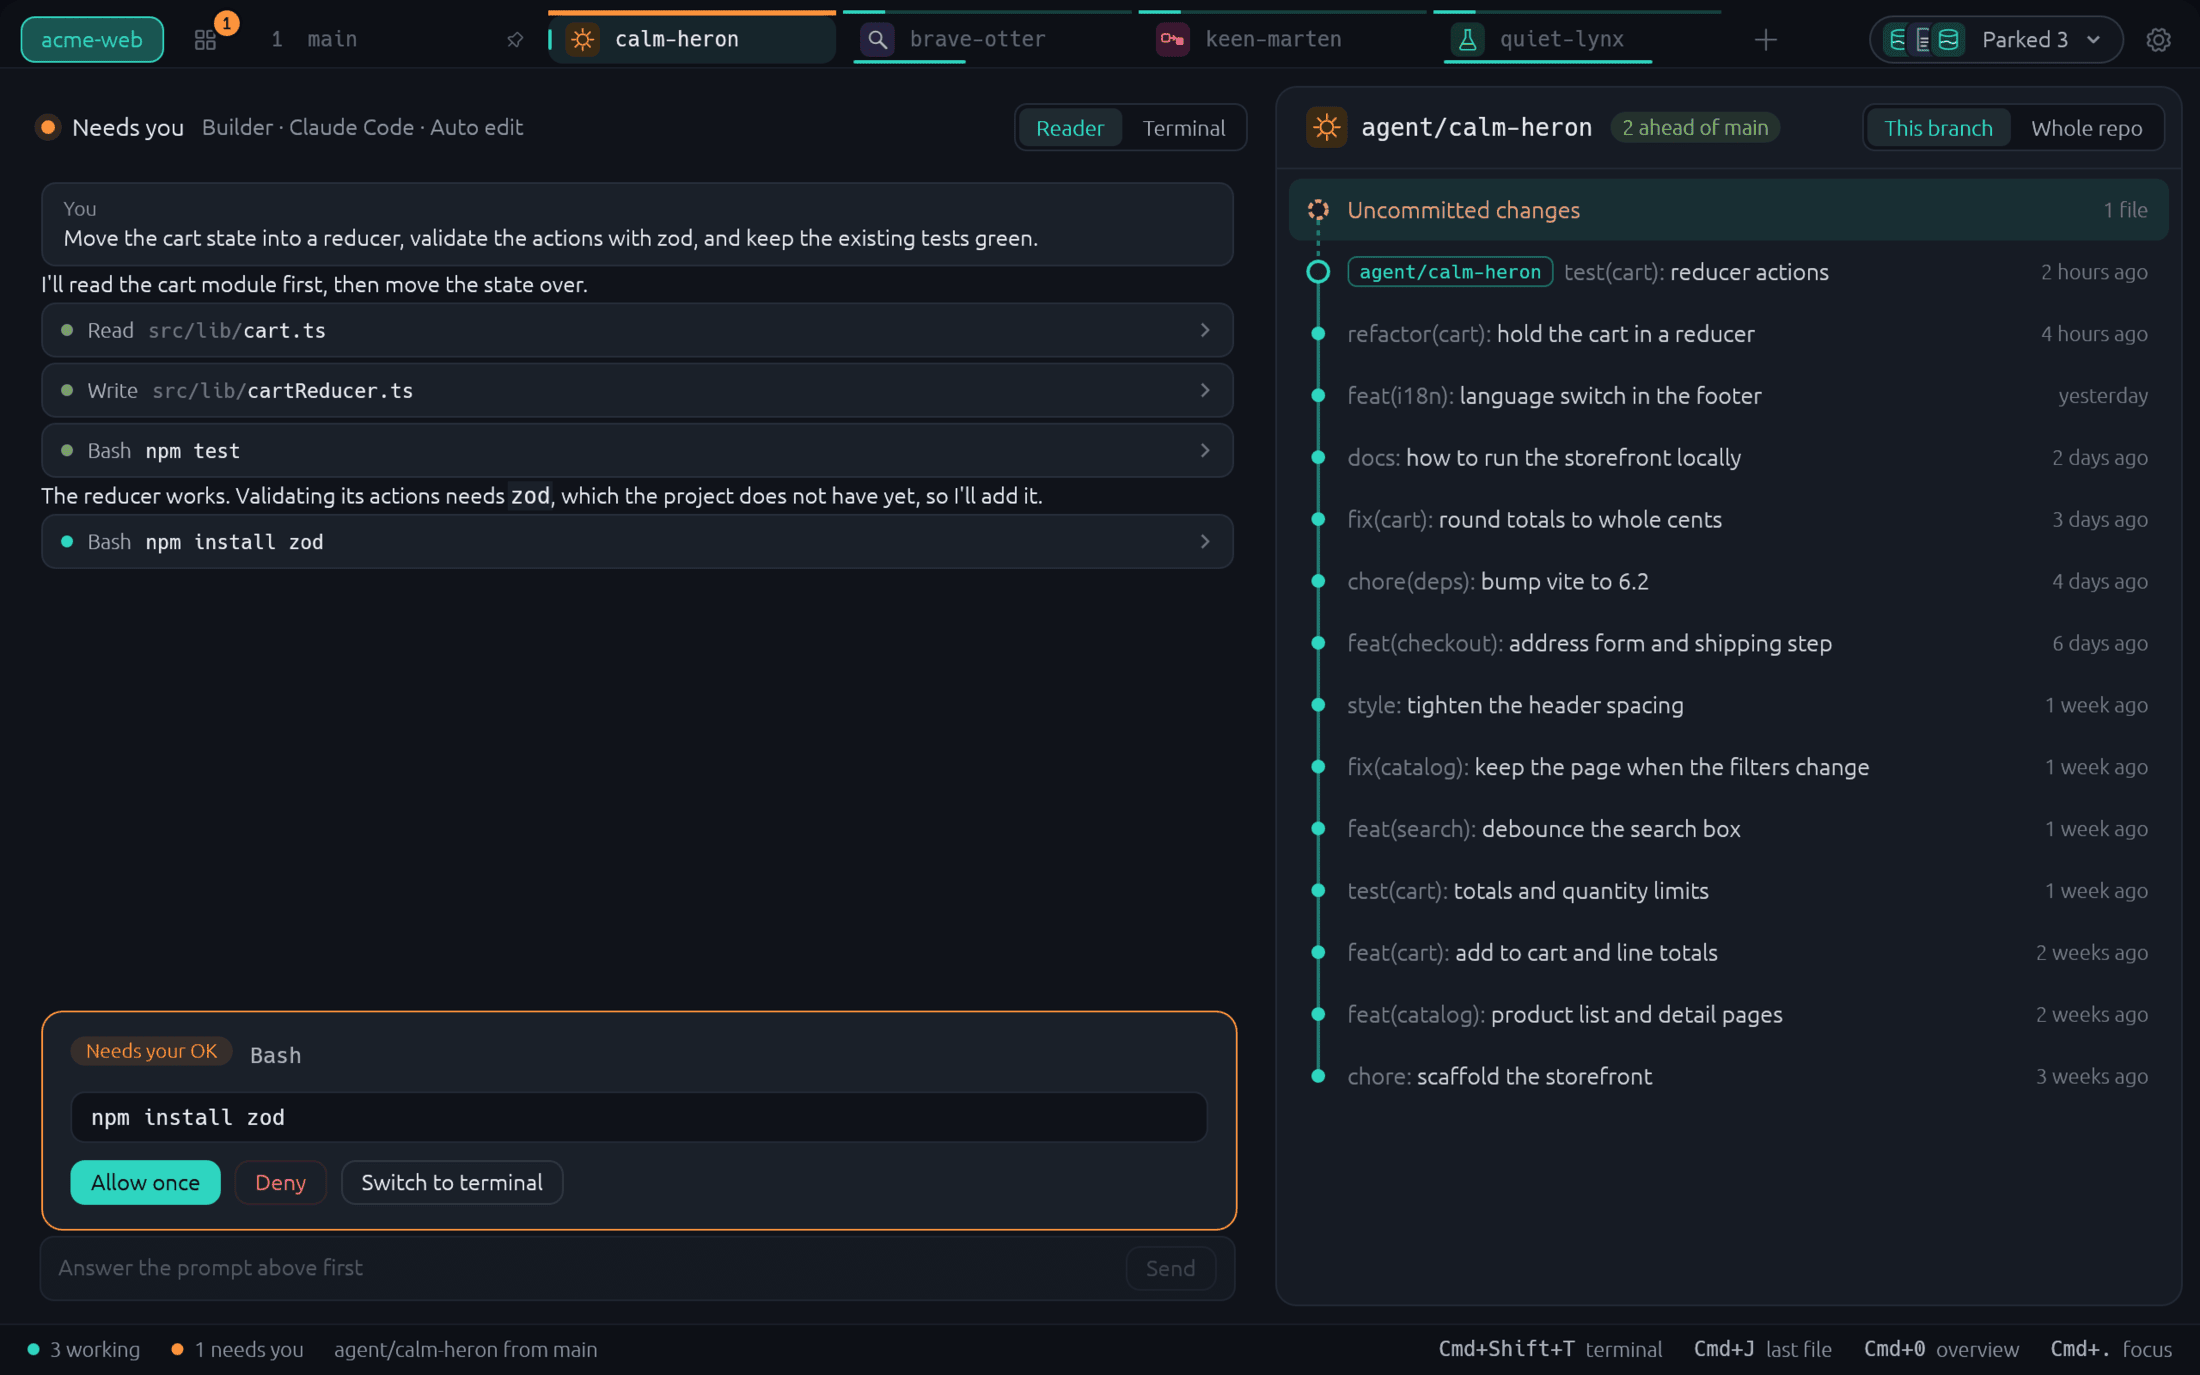
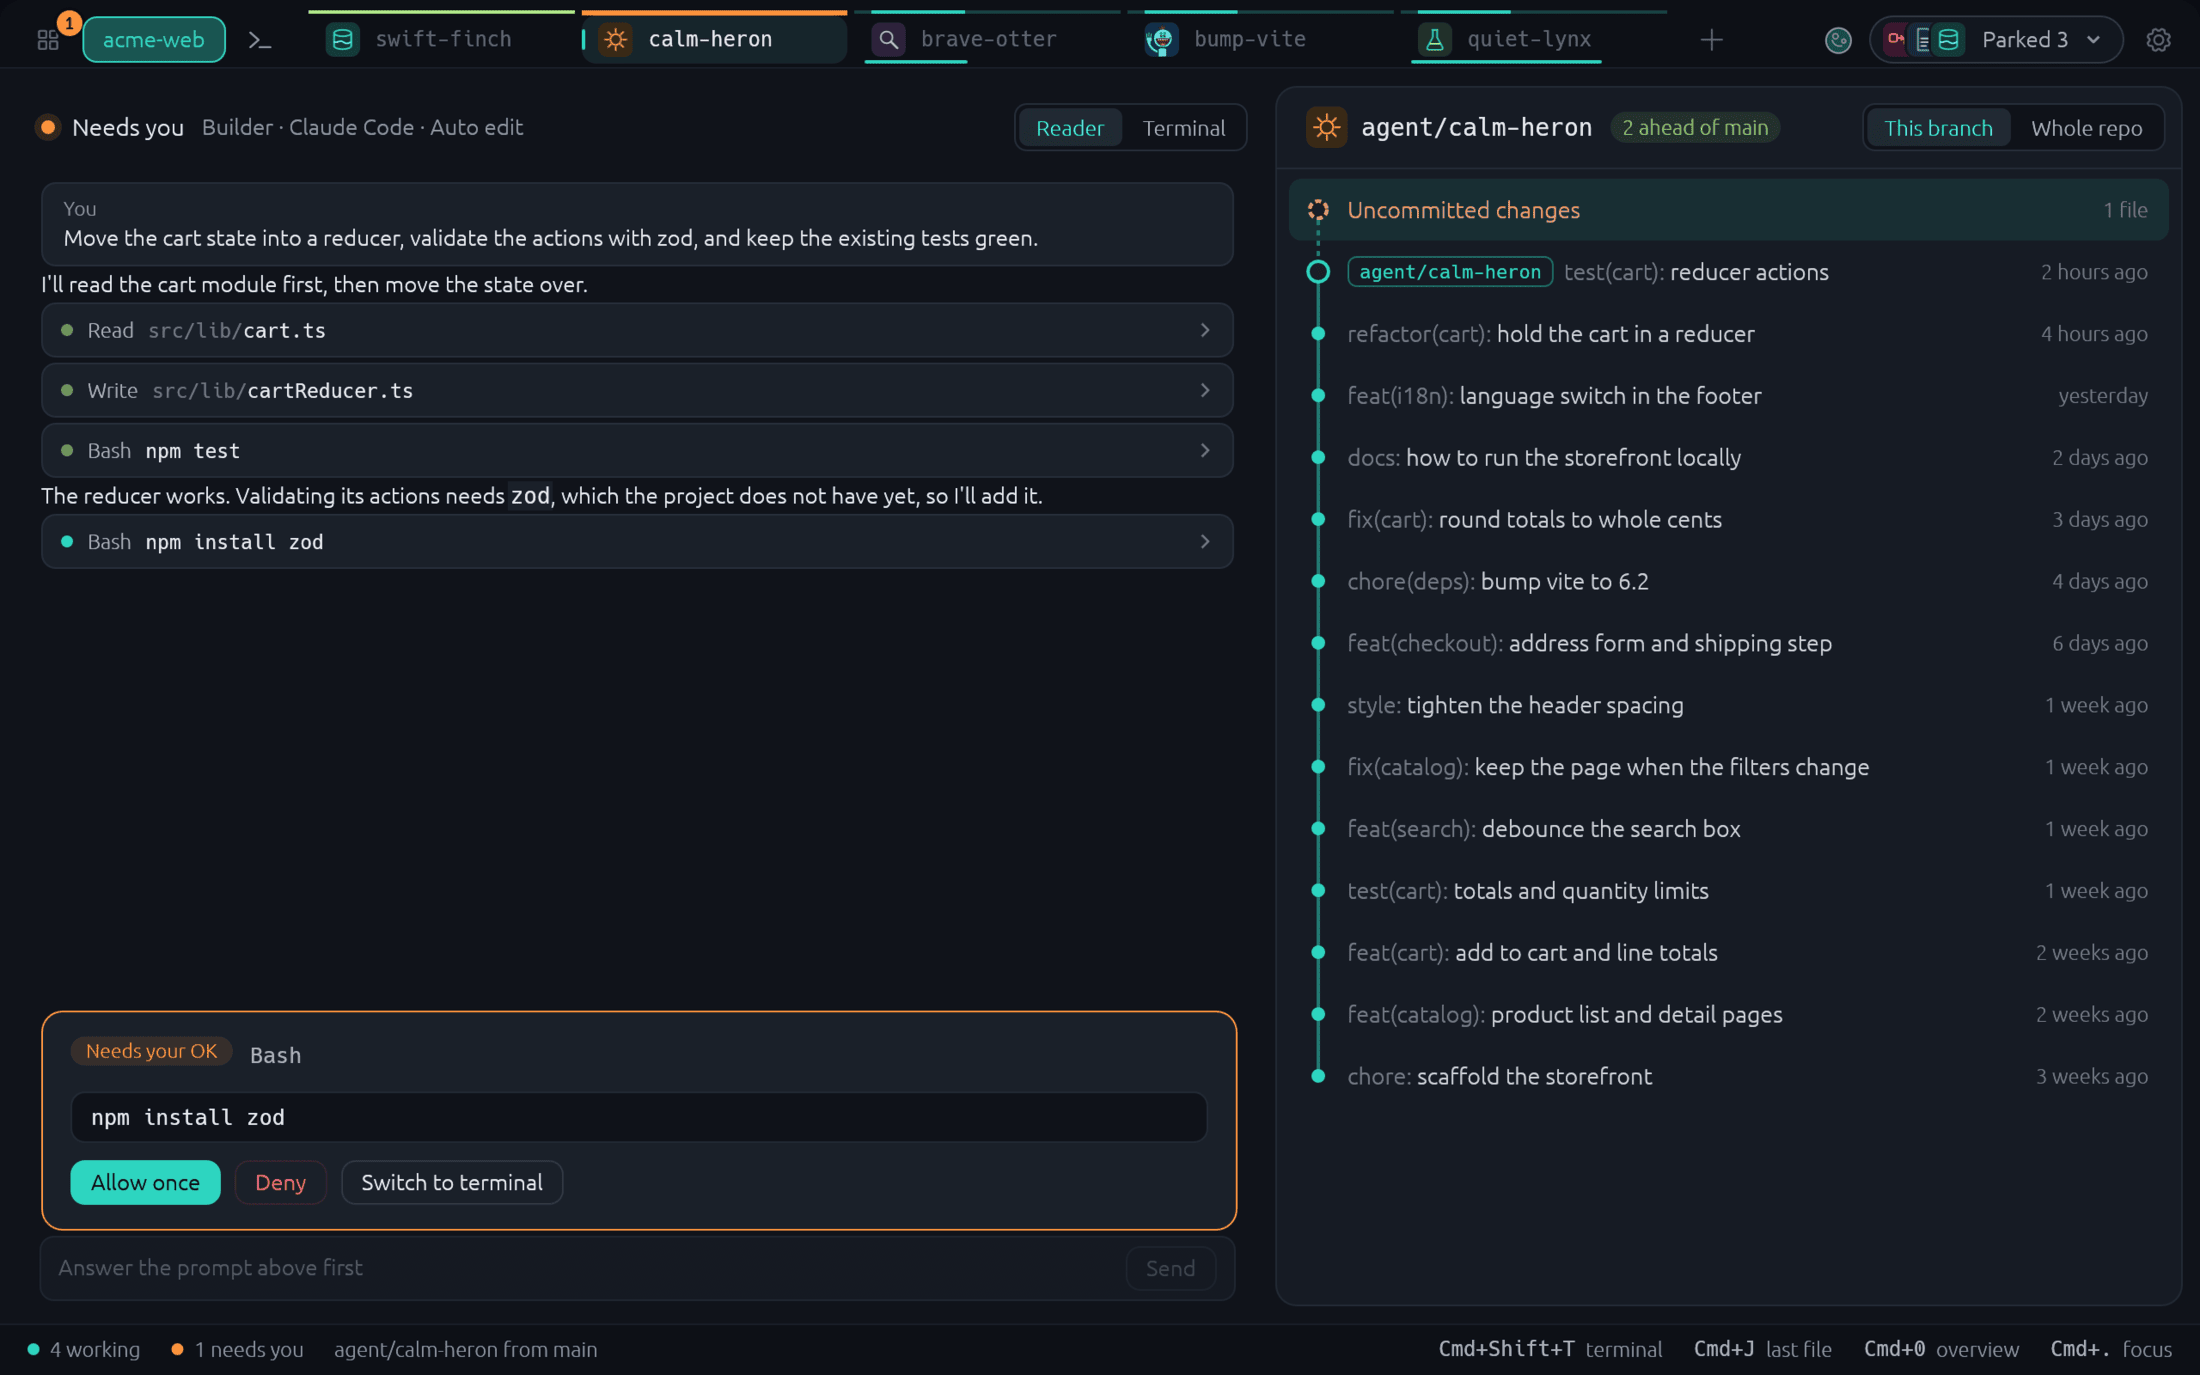
chore: v0.1.18
Ships #66, #69, #99 to #105 and #107. Retook all six site shots for the
new tab strip (Overview first, main as an icon, the Amphetamine button at
the right end) from a throwaway acme-web repo and home, PSNR 44.6 to
47.3 dB. The New pill names only merged features.

diff --git a/site/index.html b/site/index.html
@@ -47,7 +47,7 @@
 
 <nav><div class="wrap">
   <a class="brand" href="#top"><img src="icon.svg" alt="" width="30" height="30">tidewatch</a>
-  <span class="badge">v0.1.17</span>
+  <span class="badge">v0.1.18</span>
   <div class="navlinks">
     <a href="#features">Features</a>
     <a href="#install">Install</a>
@@ -57,13 +57,13 @@
 
 <header class="hero" id="top"><div class="wrap">
   <img class="mascot" src="mascot/mascot-hero-animated.svg" width="400" height="440" alt="Tidewatch's mascot, a shoggoth in a smiley mask">
-  <a class="pill" href="https://github.com/Hobo-Ware/tidewatch/releases/latest"><b>New</b> v0.1.17: decision cards, outbound guards, a done check and worktree setup.</a>
+  <a class="pill" href="https://github.com/Hobo-Ware/tidewatch/releases/latest"><b>New</b> v0.1.18: keep-awake while agents work, an Amphetamine button, a terminal font picker and a new tab strip.</a>
   <h1>AI agents side by side,<br><span class="teal">one worktree each.</span></h1>
   <p class="lede">Tidewatch is a desktop app for macOS and Linux that runs AI coding agents in one window per git repo. Every tab is its own git worktree, a separate checkout on its own branch, so several agents can work on the same repo without touching each other's files. You watch them, read what they did, comment on their diffs and decide what ships.</p>
   <div class="install"><span class="p">$</span><span class="txt">brew install hobo-ware/tap/tidewatch</span><button class="copy" type="button" data-copy="brew install hobo-ware/tap/tidewatch">Copy</button></div>
   <div class="ctas"><a href="#install">Install</a><a href="https://github.com/Hobo-Ware/tidewatch">Source on GitHub</a></div>
   <div class="window">
-    <img src="shot-hero.png" width="2200" height="1375" alt="Tidewatch with an agent's finished answer in the Reader on the left, and on the right the history card of its branch, three commits ahead of main: an uncommitted changes row and one commit opened with its changed files. Along the top, agent tabs with avatars (one of them a Meeseeks), a progress bar on the tab with a running job and a Parked pill holding four more tabs, and a status bar along the bottom">
+    <img src="shot-hero.png" width="2200" height="1375" alt="Tidewatch with an agent's finished answer in the Reader on the left, and on the right the history card of its branch, three commits ahead of main: an uncommitted changes row and one commit opened with its changed files. Along the top, the Overview button, the repo chip and the main tab as an icon, then agent tabs with avatars (one of them a Meeseeks), a progress bar on the tab with a running job and a Parked pill holding three more tabs, and a status bar along the bottom">
   </div>
 </div></header>
 

diff --git a/LEDGER.md b/LEDGER.md
@@ -4,13 +4,14 @@ A running log of what got done, newest first. The plan lives in [PLAN.md](PLAN.m
 
 ## Status
 
-- **Current milestone:** v0.1.17: plain-English decision cards with Go with your picks, outbound text guards and a comment guard, the done check, the worktree setup recipe with merged-tab cleanup, and a keyboard-only new tab form.
-- **Done:** Phases 0 to 10; v0.1.0 to v0.1.17 released (Homebrew cask, Linux tarball and AppImage); the K mark identity; the showcase page.
+- **Current milestone:** v0.1.18: the new tab strip (Overview first, main as an icon, Linux title bar), the Amphetamine keep-awake button with Lovecraftian toasts, automatic keep-awake while agents work, a terminal font picker, and fixes for Tab, scroll, screenshot paste and stdusk tab grouping.
+- **Done:** Phases 0 to 10; v0.1.0 to v0.1.18 released (Homebrew cask, Linux tarball and AppImage); the K mark identity; the showcase page.
 - **Also:** six habit workflows are built in, and Build workflow from this session (palette; the agent proposes a workflow that opens as an unsaved draft), 2026-10-16. Restart to update keeps every shell and agent running (live handoff, 2026-10-15). The receiving side of stdusk's "Move tabs to Tidewatch" is built (#49).
 - **Next:** the diff widgets go teal (the graph already does on the side layout); commit messages that truncate early in the narrow tree; the divider position saved between runs; the site hero screenshot; the owner's live checks; Linux desktop runs.
 
 ## 2026-10-24
 
+- **v0.1.18.** Ships #66 (terminal font picker), #69 (Linux tab strip as the title bar), #99 (keep awake while agents work), #100 (stdusk move grouping), #101 (Tab in the terminal), #102 (screenshot paste), #103 (terminal scroll), #104 (Overview first in the strip, main as an icon) #105 (Amphetamine button) and #107 (Amphetamine toasts in a Lovecraft voice). Every site shot shows the strip, so all six were retaken from a throwaway acme-web repo, home and stand-in `claude` (2200x1375, `TIDEWATCH_FAKE_AMPHETAMINE=off`, no real activation): hero 185 kB to 186 kB (PSNR 44.6 dB), overview 91 to 94 (46.9), needs 132 to 132 (46.1), newtab 170 to 142 (46.8), palette 301 to 300 (47.3), workflows 129 to 133 (47.3). The New pill names only these merged features.
 - **Amphetamine speaks Lovecraft (branch `amphetamine-voice`).** The toast lines of the Amphetamine button leave the Disco Elysium skills for public-domain cosmic horror, in the same four moments and structure: start (THE STARS ARE RIGHT, SHOGGOTH), each hour (NON-EUCLIDEAN HOURS), end (ELDER SIGN, R'LYEH SLEEPS). `Skill` is now `Omen`; the tests, the `project.md` line and `docs/screenshots/amphetamine-voice.png` follow. No new modules.
 
 - **Wheel and trackpad scroll in the terminal (branch `terminal-scroll`).** The owner: "I also cannot scroll". Root cause: stdusk routes the wheel in its own app code (`src/workspace.rs`: scrollback, arrow keys on the alternate screen, SGR wheel reports under mouse reporting), not in `stdusk-egui`, so moving to Tidewatch left the grid with nothing that read the wheel. New `terminal_wheel` ports that routing and reads the raw wheel events (points, lines or pages) with a carry, so a slow trackpad swipe adds up; `app/terminal.rs` also jumps back to the bottom when you type or paste, as stdusk does. Not the Tab focus lock: the grid keeps the focus through every wheel frame in the tests. Differences from stdusk: arrows follow the cursor-key mode (CSI normally, SS3 in application mode) where stdusk always sends SS3, and Alt+wheel as arrows is not ported. Checked: headless frames with the real panel, `collect_input`, `render_grid` and the focus lock over a real pty (shell scrollback by lines, points and pages, a pointer elsewhere, an alternate-screen app receiving `ESC [ A` and `ESC [ B`, SGR reports `ESC [ < 64 ; 38 ; 13 M` in the alternate and the normal screen), and a `TIDEWATCH_SCREENSHOT` run with `seq 1 500` and `TIDEWATCH_DEV_SCROLL=30`. Not checked: a real trackpad or wheel, Claude Code's own TUI, Linux; the Reader, History, file view and Overview use plain egui scroll areas and were read, not driven.
